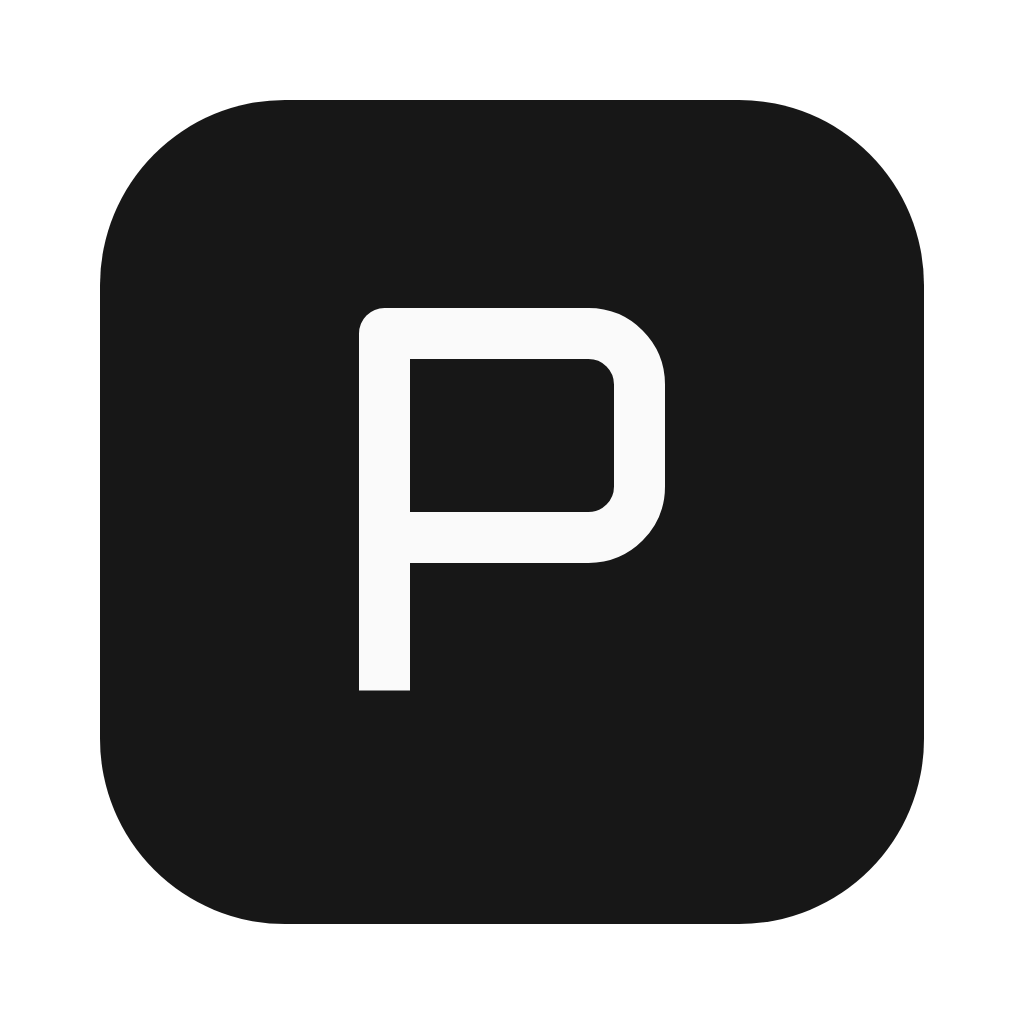
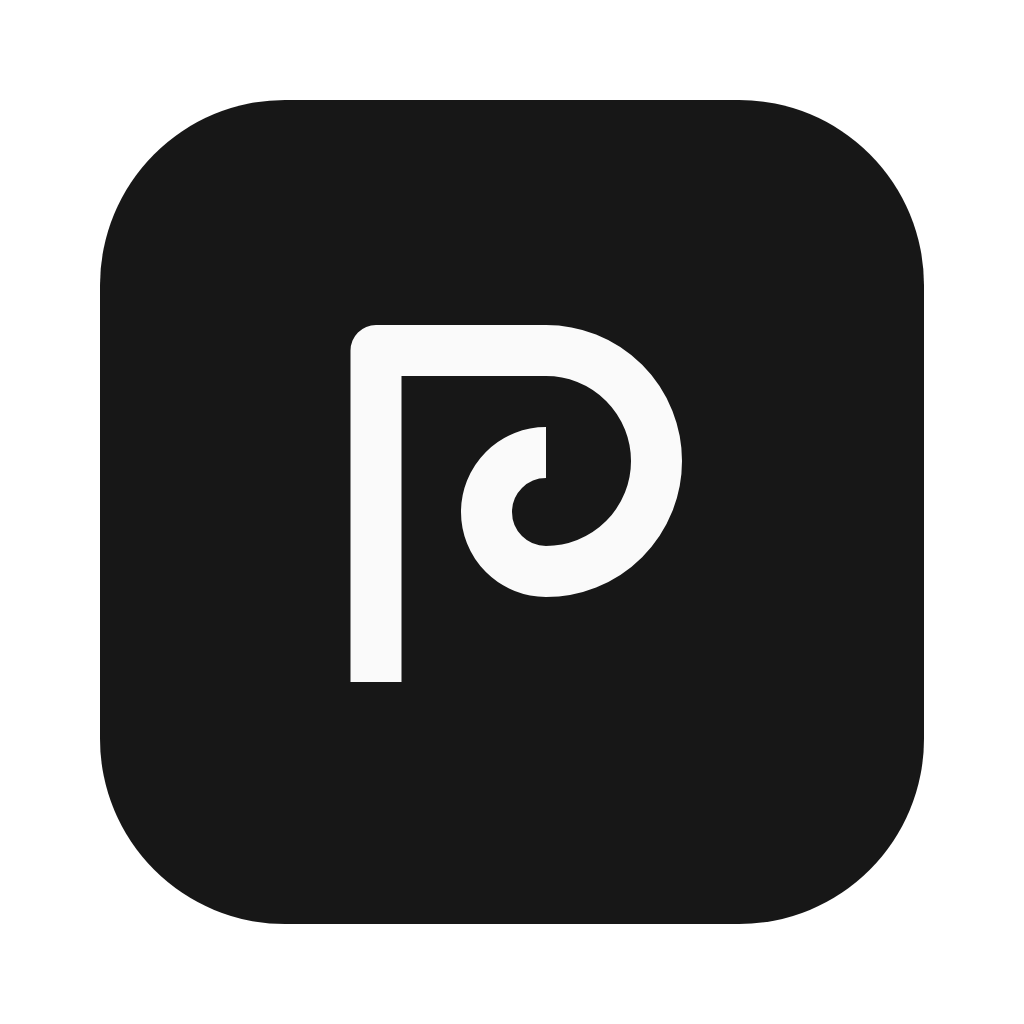
Redraw the mark as a Π whose lintel curls into an Ionic volute
The plain slide-framed P said nothing about the goddess the engine is
named after. The new stroke is the leg and top bar of Π (the initial of
Πειθώ) ending in the spiral of an Ionic capital, which doubles as the
ball of twine Peitho holds in vase painting — and the whole still reads
as a P beside the Latin wordmark. Same 64-unit box, stroke and palette;
brand/README records the new geometry and the sources.

Claude-Session: https://claude.ai/code/session_013pVmj39HZHBBrPtWQABAe2

Changed region(s): [[0.3438, 0.2812, 0.6875, 0.6875]]

diff --git a/brand/README.md b/brand/README.md
@@ -1,10 +1,19 @@
 # Peitho Studio brand assets
 
-The mark is a single monoline "P" whose bowl is drawn as a slide frame: a
-stem (the editor's caret, the thing you type at) holding up a rounded 4:3
-rectangle (the slide it produces). One stroke, no fills, no second color —
-the same neutral palette as the app's own UI tokens (`public/tokens.css`):
-ink `#171717` (`--primary`) and paper `#fafafa` (`--primary-foreground`).
+The mark is a single monoline stroke that reads three ways at once:
+
+- **Π** — the initial of Πειθώ, the goddess the engine is named after. The
+  stem and the lintel are the left leg and top bar of a Π.
+- **A volute** — the lintel curls into the spiral of an Ionic capital, the
+  Greek temple's own ornament, and at the same time into Peitho's attribute
+  in vase painting: the ball of twine she holds (words that bind), see
+  [Theoi](https://www.theoi.com/Daimon/Peitho.html).
+- **P** — the Latin initial the product name is written with, so the mark
+  sits next to "Peitho Studio" without a second letter fighting it.
+
+No fills, no second color — the same neutral palette as the app's own UI
+tokens (`public/tokens.css`): ink `#171717` (`--primary`) and paper
+`#fafafa` (`--primary-foreground`).
 
 | File | What it is |
 | --- | --- |
@@ -25,13 +34,15 @@ Everything derives from one path in a 64-unit box, stroke width 6, round
 joins, flat (butt) terminals:
 
 ```
-M17 53 V11 H41 A6 6 0 0 1 47 17 V29 A6 6 0 0 1 41 35 H17
+M16 52 V13 H36 A13 13 0 0 1 36 39 A7 7 0 0 1 36 25
 ```
 
-Stem 42 tall, bowl 30 × 24, corner radius 6; the ink spans x 14–50 and
-y 11–53, so the mark is centered in its box. Scale the box, don't redraw
-the path, when placing the mark somewhere new: the stroke has to stay
-9.4 % of the box or the "P" stops matching the rest.
+Stem 39 tall at x 16, lintel 20 wide at y 13, then a half-turn of radius 13
+bulging right and a half-turn of radius 7 bulging left — the two arcs share
+the x 36 axis, so the volute is two semicircles, not a freehand spiral. The
+ink spans x 13–52 and y 10–55, so the mark is centered in its box. Scale
+the box, don't redraw the path, when placing the mark somewhere new: the
+stroke has to stay 9.4 % of the box or the volute's counter closes up.
 
 ## Regenerating the platform icons
 
